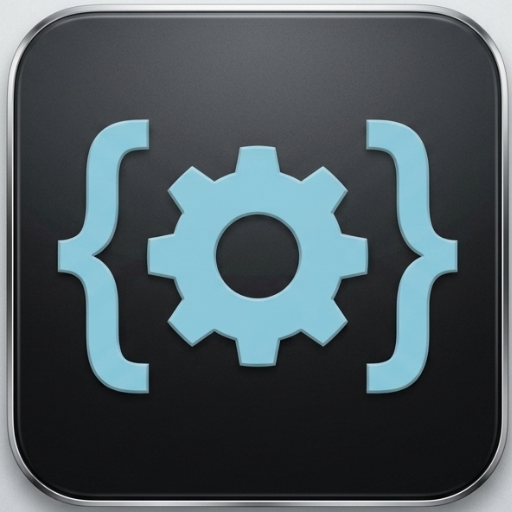
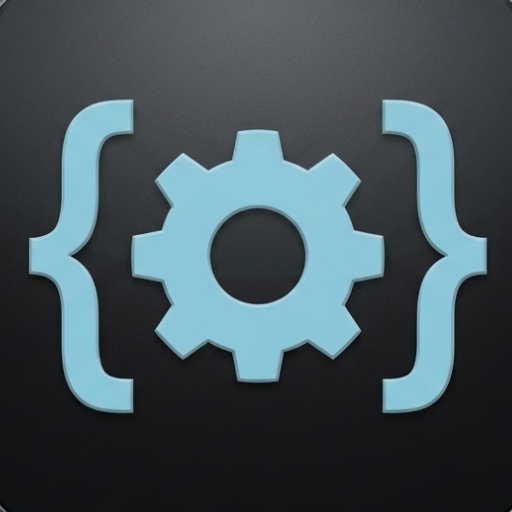
Fix: menu mobile

diff --git a/src/components/global/Navbar.tsx b/src/components/global/Navbar.tsx
@@ -1,120 +1,114 @@
-"use client"; // <-- ¡ESTO ES VITAL! Sin esto, los botones no funcionan en Next.js App Router
+"use client";
 
-import { useState, useEffect } from "react";
+import { useState } from "react";
 import Link from "next/link";
 
 export default function Navbar() {
-  const [isMobileMenuOpen, setIsMobileMenuOpen] = useState(false);
-  const [isScrolled, setIsScrolled] = useState(false);
-
-  // Efecto para detectar el scroll de la página
-  useEffect(() => {
-    const handleScroll = () => {
-      // Si el usuario baja más de 20px, activamos el estado "isScrolled"
-      if (window.scrollY > 20) {
-        setIsScrolled(true);
-      } else {
-        setIsScrolled(false);
-      }
-    };
-
-    window.addEventListener("scroll", handleScroll);
-    return () => window.removeEventListener("scroll", handleScroll); // Limpieza
-  }, []);
+  const [isOpen, setIsOpen] = useState(false);
 
   return (
-    <nav
-      className={`fixed top-0 left-0 w-full z-50 transition-all duration-300 ease-in-out ${
-        isScrolled
-          ? "py-3 bg-[#0B0F19]/80 backdrop-blur-md border-b border-[#2d3a4f] shadow-lg" // Diseño cuando hay scroll (más pequeño y translúcido)
-          : "py-5 bg-transparent" // Diseño inicial arriba del todo (más grande y transparente)
-      }`}
-    >
-      <div className="max-w-[1200px] mx-auto px-4 sm:px-6">
-        <div className="flex justify-between items-center">
-          
-          {/* LOGO */}
-          <Link href="/" className="flex items-center gap-2 z-50">
-            <span className="text-xl md:text-2xl font-bold text-white tracking-tight">
-              Bylesther<span className="text-[#3b82f6]">dev</span>
-            </span>
-          </Link>
+    <header className="fixed top-0 left-0 w-full isolate z-[100] bg-[#0B0F19] border-b border-[#2d3a4f]">
+      <div className="max-w-7xl mx-auto px-6 h-20 flex items-center justify-between relative z-[100]">
+        
+        {/* Logo */}
+        <Link href="/" className="font-sans font-bold text-xl tracking-tight text-white">
+          ByLesther<span className="text-[#3b82f6]">Dev</span>
+        </Link>
 
-          {/* MENÚ ESCRITORIO (Oculto en móvil) */}
-          <div className="hidden md:flex items-center space-x-8">
-            <Link href="/" className="text-sm text-[#cbd5e1] hover:text-white transition-colors">Inicio</Link>
-            <Link href="#servicios" className="text-sm text-[#cbd5e1] hover:text-white transition-colors">Servicios</Link>
-            <Link href="/simulador-ia" className="text-sm text-[#cbd5e1] hover:text-[#3b82f6] font-medium transition-colors">
-              Simulador IA
-            </Link>
-            
-            {/* Botón CTA */}
-            <a 
-              href="#contacto" 
-              className="px-5 py-2 text-sm font-semibold text-white bg-[#3b82f6] hover:bg-[#2563eb] rounded-lg transition-all shadow-[0_0_15px_rgba(59,130,246,0.2)]"
-            >
-              Agenda una cita
-            </a>
-          </div>
+        {/* Links Desktop */}
+        <nav className="hidden md:flex items-center gap-8">
+          <Link href="/servicios" className="text-[#cbd5e1] hover:text-white transition-colors text-sm font-medium">Servicios</Link>
+          <Link href="/calculadora" className="text-[#cbd5e1] hover:text-white transition-colors text-sm font-medium">Calculadora</Link>
+          <Link href="/simulador-ia" className="text-[#cbd5e1] hover:text-white transition-colors text-sm font-medium">Simulador IA</Link>
+          <Link href="/contacto" className="text-[#cbd5e1] hover:text-white transition-colors text-sm font-medium">Contacto</Link>
+        </nav>
 
-          {/* BOTÓN HAMBURGUESA (Solo en móvil) */}
-          <button
-            onClick={() => setIsMobileMenuOpen(!isMobileMenuOpen)}
-            className="md:hidden text-[#cbd5e1] hover:text-white focus:outline-none z-50"
-            aria-label="Toggle menu"
+        {/* Botón WhatsApp Desktop */}
+        <div className="hidden md:block">
+          <a 
+            href="https://wa.me/56946976778?text=Hola%20Jordi,%20vengo%20de%20tu%20sitio%20web%20y%20me%20gustar%C3%ADa%20cotizar%20un%20proyecto." 
+            target="_blank" 
+            rel="noreferrer"
+            className="py-2.5 px-5 text-sm font-medium text-white bg-[#10B981] hover:bg-[#059669] rounded-lg transition-all inline-flex items-center gap-2"
           >
-            {isMobileMenuOpen ? (
-              // Icono "X" para cerrar
-              <svg className="w-7 h-7 transition-transform rotate-90" fill="none" viewBox="0 0 24 24" stroke="currentColor">
-                <path strokeLinecap="round" strokeLinejoin="round" strokeWidth={2} d="M6 18L18 6M6 6l12 12" />
-              </svg>
-            ) : (
-              // Icono Hamburguesa para abrir
-              <svg className="w-7 h-7 transition-transform" fill="none" viewBox="0 0 24 24" stroke="currentColor">
-                <path strokeLinecap="round" strokeLinejoin="round" strokeWidth={2} d="M4 6h16M4 12h16M4 18h16" />
-              </svg>
-            )}
-          </button>
+            <span>✆</span>
+            <span>WhatsApp</span>
+          </a>
         </div>
+
+        {/* Botón Hamburguesa Mobile */}
+        <button 
+          type="button"
+          onClick={(e) => {
+            e.stopPropagation();
+            setIsOpen((prev) => !prev);
+          }}
+          className="md:hidden relative z-[110] text-[#cbd5e1] hover:text-white p-2 focus:outline-none"
+          aria-label="Abrir menú"
+          aria-expanded={isOpen}
+        >
+          <svg xmlns="http://www.w3.org/2000/svg" fill="none" viewBox="0 0 24 24" strokeWidth={1.5} stroke="currentColor" className="w-7 h-7">
+            {isOpen ? (
+              <path strokeLinecap="round" strokeLinejoin="round" d="M6 18L18 6M6 6l12 12" />
+            ) : (
+              <path strokeLinecap="round" strokeLinejoin="round" d="M3.75 6.75h16.5M3.75 12h16.5m-16.5 5.25h16.5" />
+            )}
+          </svg>
+        </button>
+
       </div>
 
-      {/* MENÚ MÓVIL DESPLEGABLE */}
+      {/* Menú Móvil */}
       <div 
-        className={`md:hidden absolute top-full left-0 w-full bg-[#111827] border-b border-[#2d3a4f] shadow-2xl transition-all duration-300 ease-in-out overflow-hidden ${
-          isMobileMenuOpen ? "max-h-[400px] opacity-100 py-4" : "max-h-0 opacity-0 py-0"
+        className={`fixed inset-0 top-20 bg-[#0B0F19] z-[90] md:hidden flex flex-col px-6 py-8 justify-between shadow-2xl transition-all duration-300 ease-in-out ${
+          isOpen 
+            ? "translate-x-0 opacity-100 pointer-events-auto" 
+            : "translate-x-full opacity-0 pointer-events-none"
         }`}
       >
-        <div className="flex flex-col px-4 space-y-4">
+        <nav className="menumobile flex flex-col gap-6 text-center pt-4">
           <Link 
-            href="/" 
-            onClick={() => setIsMobileMenuOpen(false)}
-            className="text-base text-[#cbd5e1] hover:text-white font-medium pb-2 border-b border-[#1f2937]"
-          >
-            Inicio
-          </Link>
-          <Link 
-            href="#servicios" 
-            onClick={() => setIsMobileMenuOpen(false)}
-            className="text-base text-[#cbd5e1] hover:text-white font-medium pb-2 border-b border-[#1f2937]"
+            href="/servicios" 
+            onClick={() => setIsOpen(false)}
+            className="text-white text-xl font-medium py-3"
           >
             Servicios
           </Link>
           <Link 
+            href="/calculadora" 
+            onClick={() => setIsOpen(false)}
+            className="text-white text-xl font-medium py-3"
+          >
+            Calculadora
+          </Link>
+          <Link 
             href="/simulador-ia" 
-            onClick={() => setIsMobileMenuOpen(false)}
-            className="text-base text-[#3b82f6] font-semibold pb-2 border-b border-[#1f2937]"
+            onClick={() => setIsOpen(false)}
+            className="text-white text-xl font-medium py-3"
           >
             Simulador IA
           </Link>
-          <a 
-            href="#contacto" 
-            onClick={() => setIsMobileMenuOpen(false)}
-            className="text-center mt-2 px-5 py-3 text-sm font-semibold text-white bg-[#3b82f6] hover:bg-[#2563eb] rounded-lg transition-all"
+          <Link 
+            href="/contacto" 
+            onClick={() => setIsOpen(false)}
+            className="text-white text-xl font-medium py-3"
           >
-            Agenda una cita
+            Contacto
+          </Link>
+        </nav>
+
+        <div className="pb-8">
+          <a 
+            href="https://wa.me/56946976778?text=Hola%20Jordi,%20vengo%20de%20tu%20sitio%20web%20y%20me%20gustar%C3%ADa%20cotizar%20un%20proyecto." 
+            target="_blank" 
+            rel="noreferrer"
+            className="w-full py-4 text-center text-white bg-[#10B981] hover:bg-[#059669] rounded-xl font-medium flex items-center justify-center gap-2 text-base shadow-lg"
+          >
+            <span>✆</span>
+            <span>Escríbeme por WhatsApp</span>
           </a>
         </div>
       </div>
-    </nav>
+    </header>
   );
 }